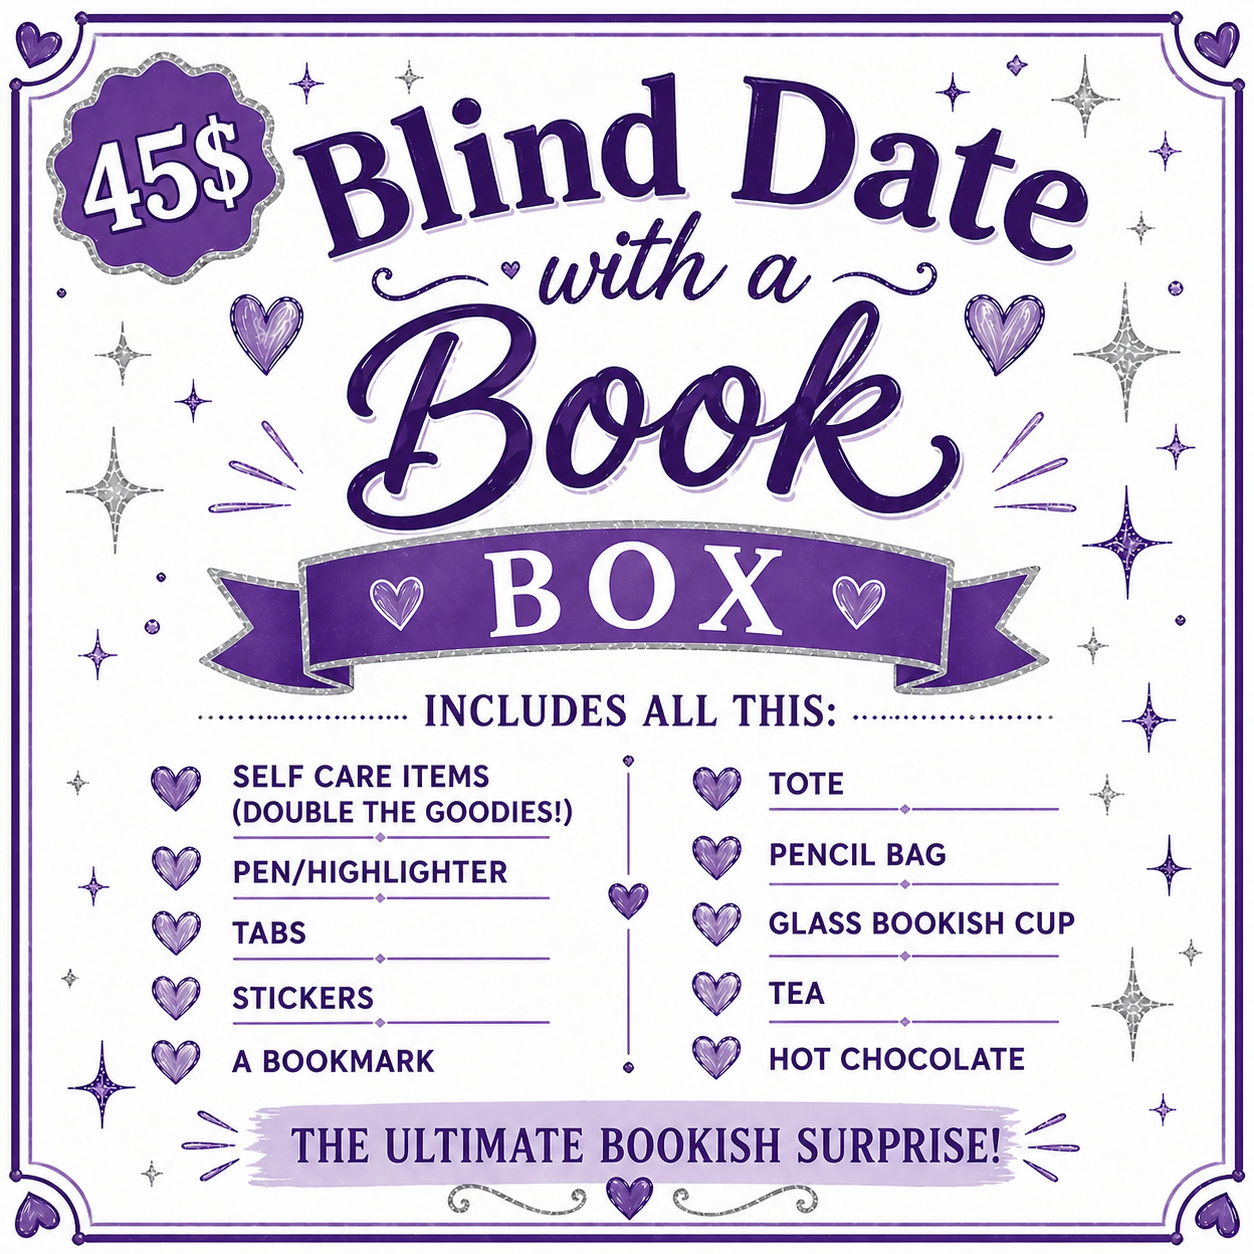
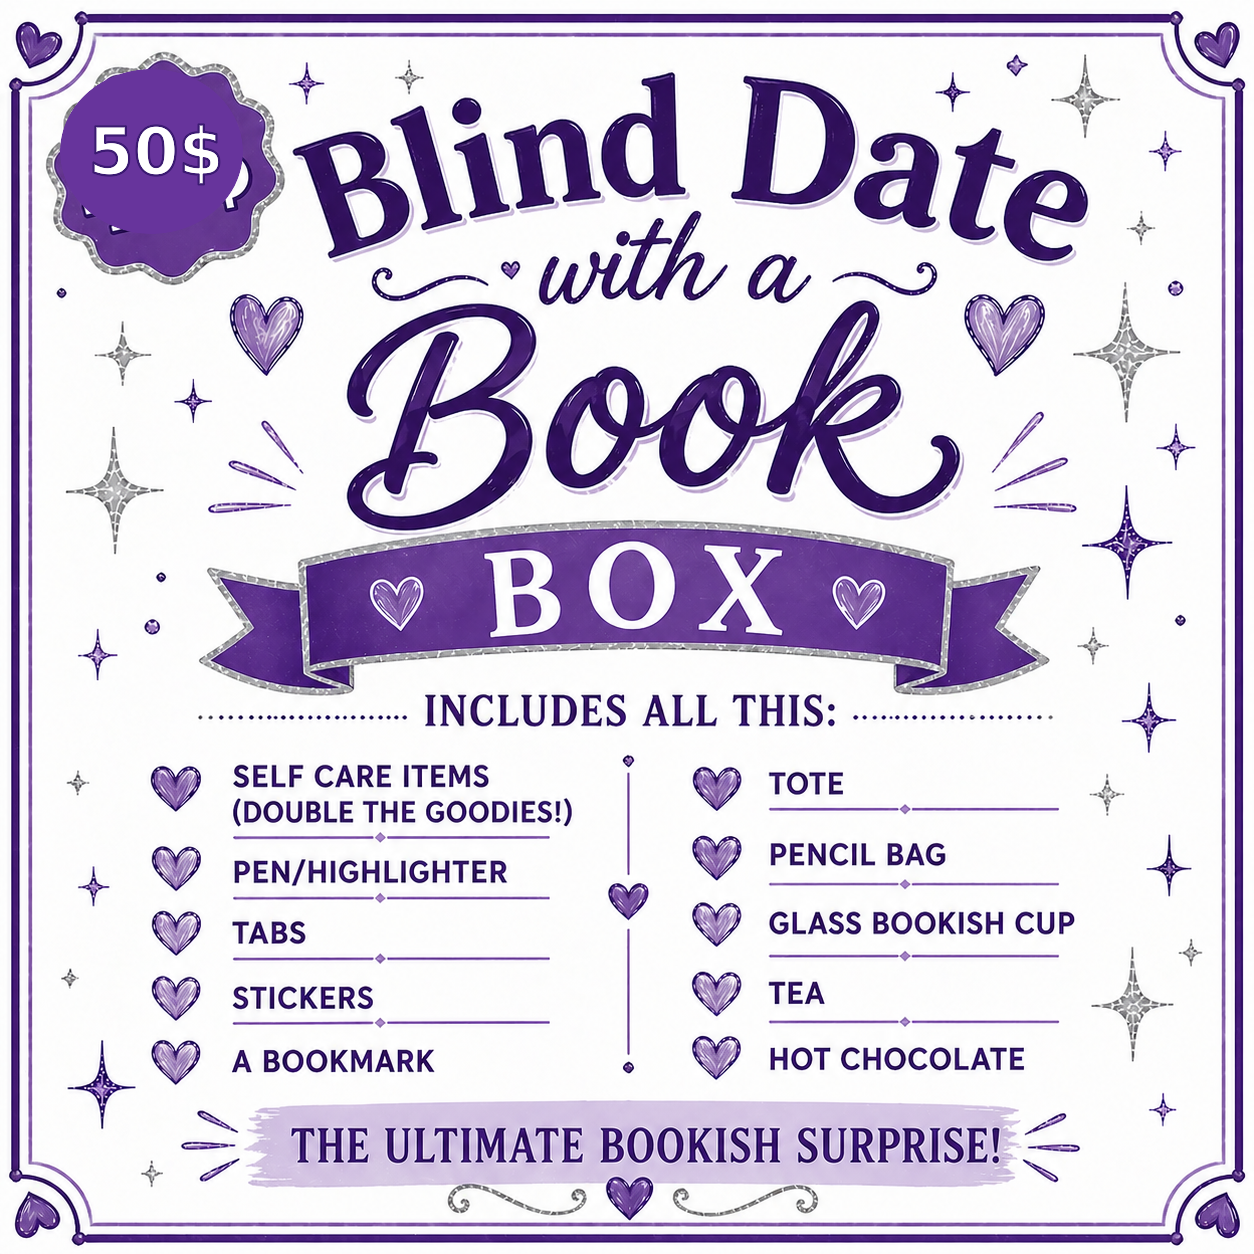
Update book box prices (6a4aa0fd33d18e627d4cc36d)

Changed region(s): [[0.0311, 0.0622, 0.2177, 0.1866], [0.0933, 0.0311, 0.1244, 0.0622]]

diff --git a/dashboard.html b/dashboard.html
@@ -466,14 +466,14 @@
 <section class="book-date-section">
   <h2>Choose Your Book Date</h2>
   <div class="book-date-cards">
-    <a href="#orderSection" class="book-tile" aria-label="Order the $18 Kindle Blind Date Box">
-      <img src="/assets/kindle-blind-date.png" alt="$18 Kindle Blind Date Box — includes Kindle download code, 2 coasters, self-care goodies, tea or hot chocolate, stickers, pin, and a magnetic bookmark">
+    <a href="#orderSection" class="book-tile" aria-label="Order the $18-22 Kindle Blind Date Box">
+      <img src="/assets/kindle-blind-date.png" alt="$18-22 Kindle Blind Date Box — includes Kindle download code, 2 coasters, self-care goodies, tea or hot chocolate, stickers, pin, and a magnetic bookmark">
     </a>
-    <a href="#orderSection" class="book-tile" aria-label="Order the $25 Blind Date with a Book">
-      <img src="/assets/blind-date-book.png" alt="$25 Blind Date with a Book — includes self care items, pen/highlighter, tabs, stickers, a bookmark, and hot chocolate">
+    <a href="#orderSection" class="book-tile" aria-label="Order the $27 Blind Date with a Book">
+      <img src="/assets/blind-date-book.png" alt="$27 Blind Date with a Book — includes self care items, pen/highlighter, tabs, stickers, a bookmark, and hot chocolate">
     </a>
-    <a href="#orderSection" class="book-tile" aria-label="Order the $45 Blind Date with a Book Box — the ultimate bookish surprise">
-      <img src="/assets/blind-date-book-deluxe.png" alt="$45 Blind Date with a Book Box — the ultimate bookish surprise with double the goodies, tote, pencil bag, glass bookish cup, tea, and hot chocolate">
+    <a href="#orderSection" class="book-tile" aria-label="Order the $50 Blind Date with a Book Box — the ultimate bookish surprise">
+      <img src="/assets/blind-date-book-deluxe.png" alt="$50 Blind Date with a Book Box — the ultimate bookish surprise with double the goodies, tote, pencil bag, glass bookish cup, tea, and hot chocolate">
     </a>
   </div>
 </section>
@@ -850,9 +850,9 @@
   }
 
   const BUNDLES = [
-    { id: 'kindle',   label: 'Blind Date with a Kindle Box',        price: 18 },
-    { id: 'original', label: 'Blind Date with a Book Original',     price: 25 },
-    { id: 'ultimate', label: 'Blind Date with a Book Ultimate Box', price: 45 },
+    { id: 'kindle',   label: 'Blind Date with a Kindle Box',        price: 18, suffix: '-22' },
+    { id: 'original', label: 'Blind Date with a Book Original',     price: 27 },
+    { id: 'ultimate', label: 'Blind Date with a Book Ultimate Box', price: 50 },
     { id: 'glasses',  label: 'Bookish Glasses',                     price: 15, merch: true },
     { id: 'totes',    label: 'Totes',                               price: 10, merch: true },
   ];

diff --git a/index.html b/index.html
@@ -245,14 +245,14 @@
 <section class="section" id="shop">
   <h2>Choose Your Book Date</h2>
   <div class="cards" id="shopCards">
-    <a href="/dashboard.html" class="book-tile" aria-label="Order the $18 Kindle Blind Date Box">
-      <img src="/assets/kindle-blind-date.png" alt="$18 Kindle Blind Date Box — includes Kindle download code, 2 coasters, self-care goodies, tea or hot chocolate, stickers, pin, and a magnetic bookmark">
+    <a href="/dashboard.html" class="book-tile" aria-label="Order the $18-22 Kindle Blind Date Box">
+      <img src="/assets/kindle-blind-date.png" alt="$18-22 Kindle Blind Date Box — includes Kindle download code, 2 coasters, self-care goodies, tea or hot chocolate, stickers, pin, and a magnetic bookmark">
     </a>
-    <a href="/dashboard.html" class="book-tile" aria-label="Order the $25 Blind Date with a Book">
-      <img src="/assets/blind-date-book.png" alt="$25 Blind Date with a Book — includes self care items, pen/highlighter, tabs, stickers, a bookmark, and hot chocolate">
+    <a href="/dashboard.html" class="book-tile" aria-label="Order the $27 Blind Date with a Book">
+      <img src="/assets/blind-date-book.png" alt="$27 Blind Date with a Book — includes self care items, pen/highlighter, tabs, stickers, a bookmark, and hot chocolate">
     </a>
-    <a href="/dashboard.html" class="book-tile" aria-label="Order the $45 Blind Date with a Book Box — the ultimate bookish surprise">
-      <img src="/assets/blind-date-book-deluxe.png" alt="$45 Blind Date with a Book Box — the ultimate bookish surprise with double the goodies, tote, pencil bag, glass bookish cup, tea, and hot chocolate">
+    <a href="/dashboard.html" class="book-tile" aria-label="Order the $50 Blind Date with a Book Box — the ultimate bookish surprise">
+      <img src="/assets/blind-date-book-deluxe.png" alt="$50 Blind Date with a Book Box — the ultimate bookish surprise with double the goodies, tote, pencil bag, glass bookish cup, tea, and hot chocolate">
     </a>
   </div>
 </section>
